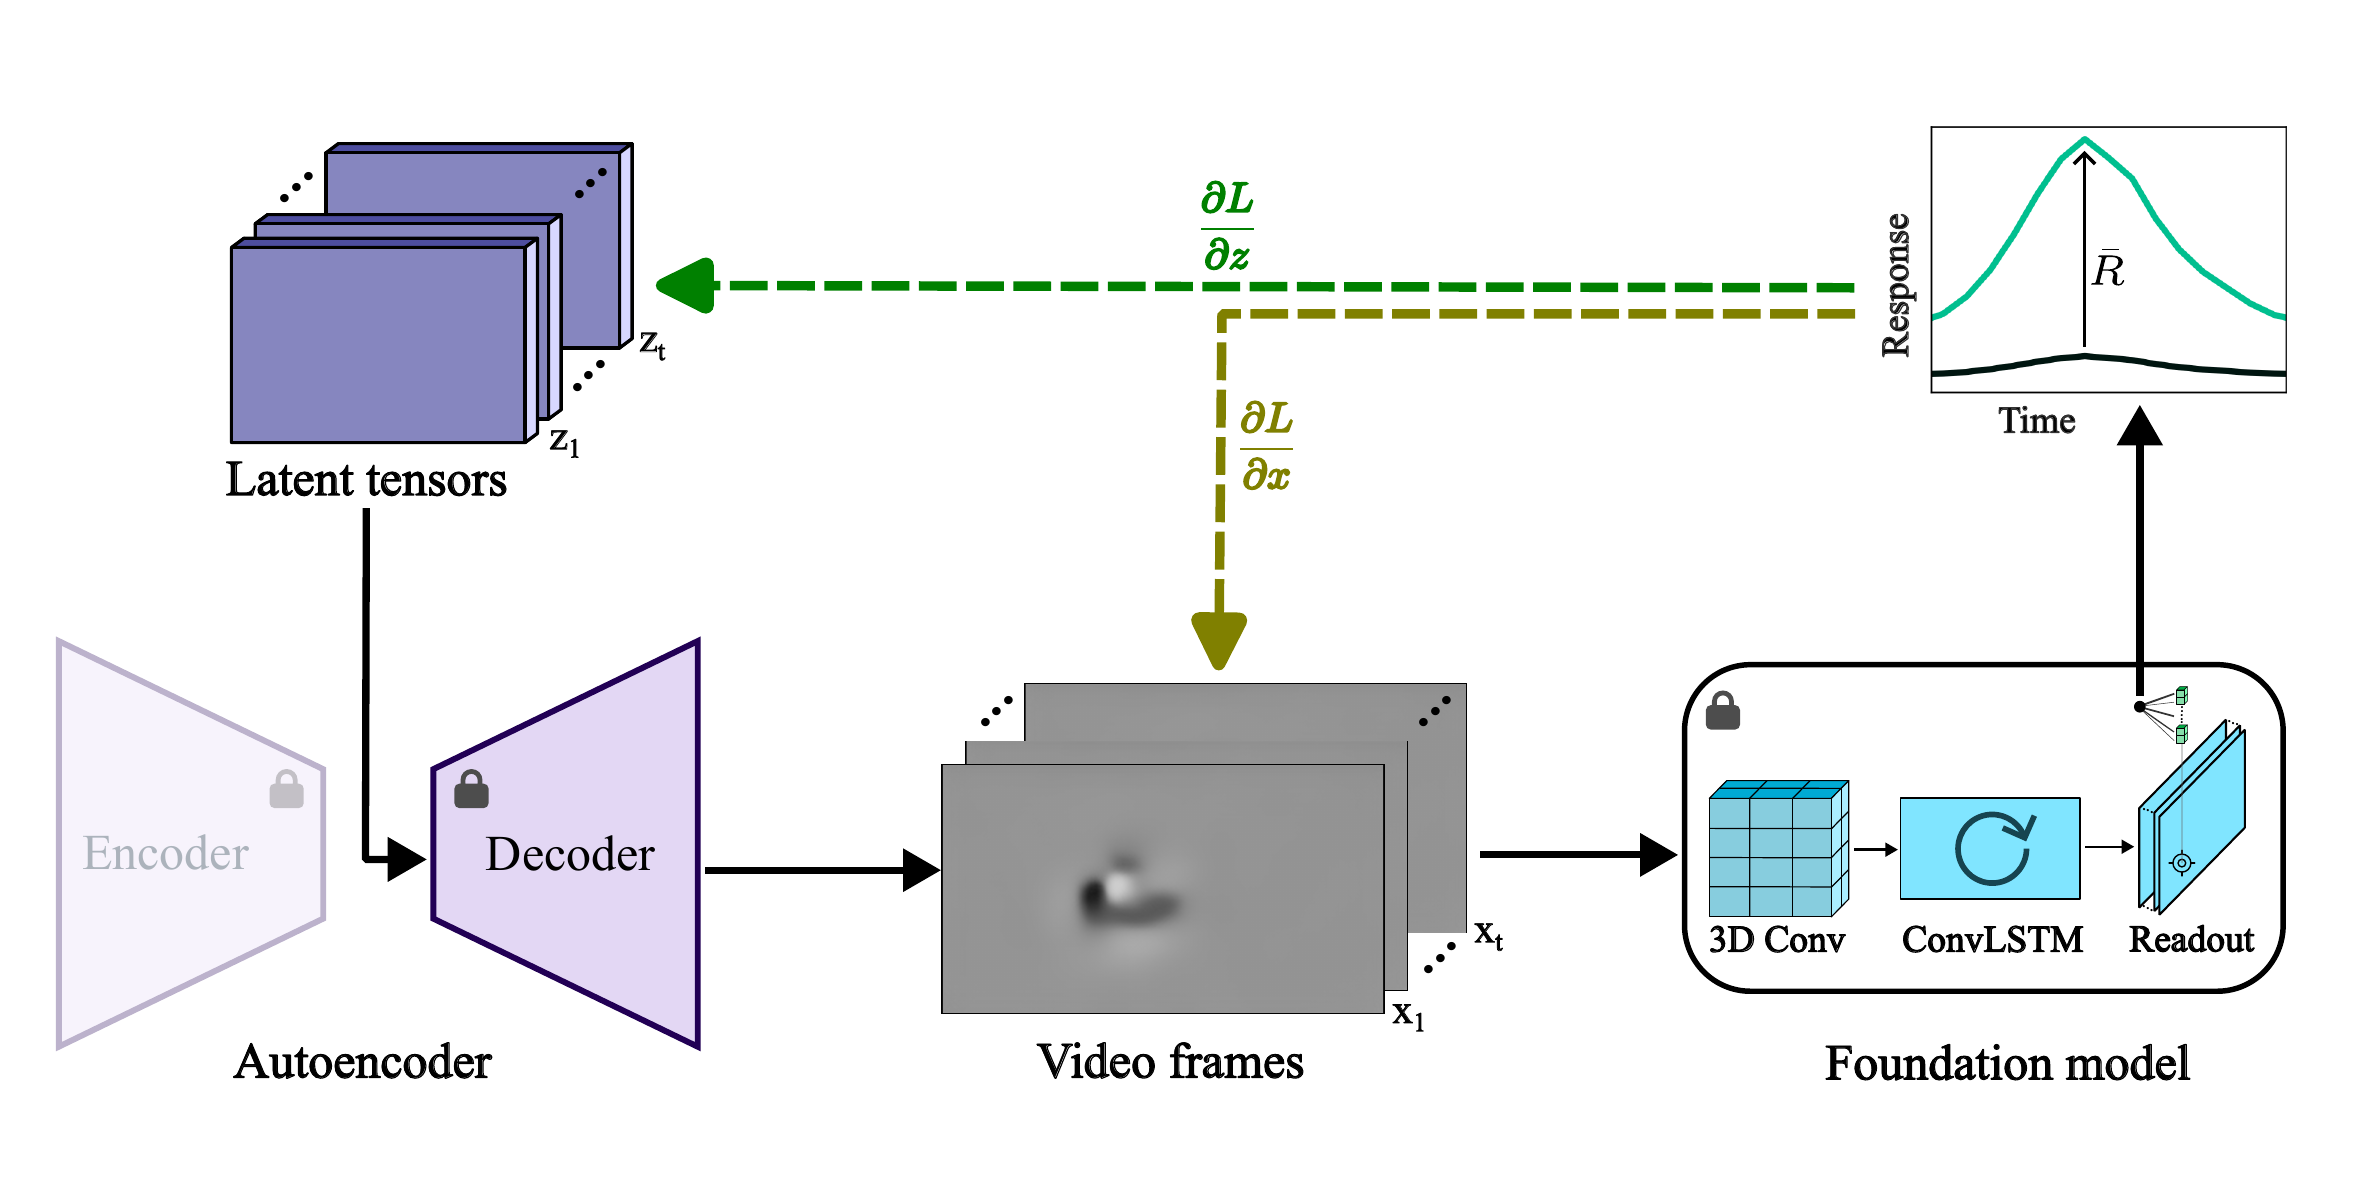
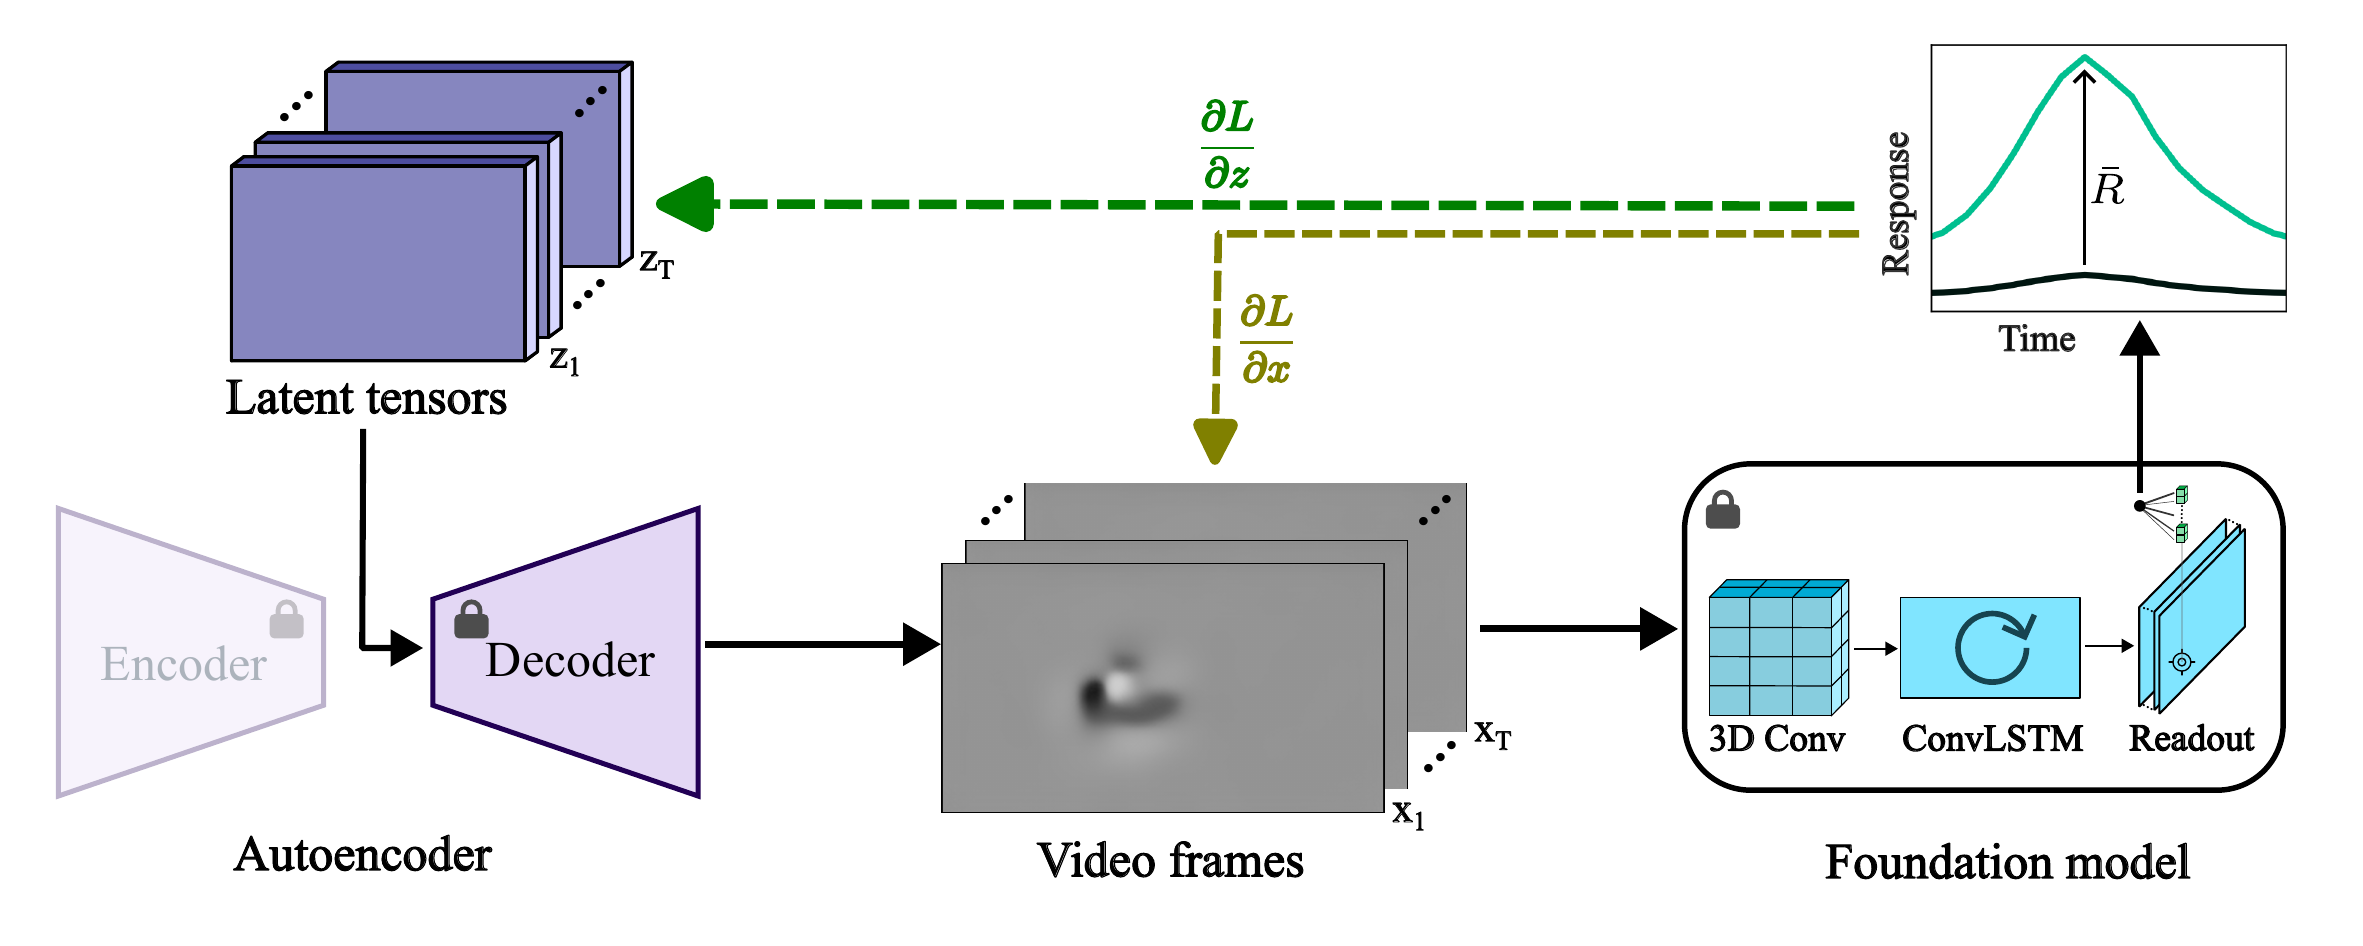
fix: updated figures

diff --git a/visualization/fig6.py b/visualization/fig6.py
@@ -195,17 +195,18 @@ def generate_fig6():
     
     pvals_layer = []
     groups_layer = []
+    layer_pairs = [(0,1), (1,2), (0,2)]
     
-    for i in range(len(layer_order) - 1):
+    for i, j in layer_pairs:
         g1 = filtered_layer[filtered_layer['layer'] == layer_order[i]][stii_col].dropna()
-        g2 = filtered_layer[filtered_layer['layer'] == layer_order[i+1]][stii_col].dropna()
+        g2 = filtered_layer[filtered_layer['layer'] == layer_order[j]][stii_col].dropna()
         if len(g1) > 0 and len(g2) > 0:
             _, p_val = ttest_ind(g1, g2, equal_var=False)
             pvals_layer.append(p_val)
-            groups_layer.append((i, i+1))
+            groups_layer.append((i, j))
         else:
             pvals_layer.append(np.nan)
-            groups_layer.append((i, i+1))
+            groups_layer.append((i, j))
             
     if pvals_layer:
         valid_indices = [i for i, p in enumerate(pvals_layer) if not np.isnan(p)]
@@ -215,11 +216,14 @@ def generate_fig6():
             for idx, corr_pval in zip(valid_indices, p_corrected_layer):
                 pvals_layer[idx] = corr_pval
 
-    for idx, (i, next_i) in enumerate(groups_layer):
+    for idx, (i, j) in enumerate(groups_layer):
         if not np.isnan(pvals_layer[idx]):
             star = get_star(pvals_layer[idx])
-            x1, x2 = i, i + 1
-            y, h = max(maxs_c[i], maxs_c[i+1]) + 0.05 + i*0.04, 0.02
+            x1, x2 = i, j
+            y = max(maxs_c[i], maxs_c[j]) + 0.05 + idx * 0.04
+            if i == 0 and j == 2:
+                y += 0.12
+            h = 0.02
             axC.plot([x1, x1, x2, x2], [y, y+h, y+h, y], lw=2.0, c='black')
             axC.text((x1+x2)*.5, y + h + 0.01, star, ha='center', va='bottom', color='black', fontsize=38)
     
@@ -251,14 +255,14 @@ def generate_fig6():
     c_m, c_g = '#1f77b4', '#2ca02c'
     axD.errorbar(x_positions, medi_tf_mean, yerr=medi_tf_sem, color=c_m, marker='o', linestyle='-', linewidth=4, label='MEDI TF', capsize=12, capthick=4, elinewidth=4, markersize=12)
     axD.errorbar(x_positions, grat_tf_mean, yerr=grat_tf_sem, color=c_g, marker='o', linestyle='-', linewidth=4, label='Grating TF', capsize=12, capthick=4, elinewidth=4, markersize=12)
-    axD.set_ylabel('Mean Preferred TF (Hz)', color='black', fontsize=34, labelpad=20)
-    axD.set_xticks(x_positions); axD.set_xticklabels(areas, fontsize=34)
+    axD.set_ylabel('Mean Preferred TF (Hz)', color='black', fontsize=38, labelpad=20)
+    axD.set_xticks(x_positions); axD.set_xticklabels(areas, fontsize=32)
     axD.margins(y=0.45); axD.spines['top'].set_visible(False)
     
     axD_sf = axD.twinx()
     axD_sf.errorbar(x_positions, medi_sf_mean, yerr=medi_sf_sem, color=c_m, marker='s', linestyle='--', linewidth=4, label='MEDI SF', capsize=12, capthick=4, elinewidth=4, markersize=12)
     axD_sf.errorbar(x_positions, grat_sf_mean, yerr=grat_sf_sem, color=c_g, marker='s', linestyle='--', linewidth=4, label='Grating SF', capsize=12, capthick=4, elinewidth=4, markersize=12)
-    axD_sf.set_ylabel('Mean Preferred SF (cpp)', color='black', fontsize=34, labelpad=20)
+    axD_sf.set_ylabel('Mean Preferred SF (cpp)', color='black', fontsize=38, labelpad=20)
     axD_sf.margins(y=0.45); axD_sf.spines['top'].set_visible(False)
     
     h1, l1 = axD.get_legend_handles_labels()
@@ -287,8 +291,8 @@ def generate_fig6():
             axE.text(j + 0.3, i + 0.3, sym_m, ha='center', va='center', color=c_m, fontsize=28)
             axE.text(j + 0.7, i + 0.8, sym_g, ha='center', va='center', color=c_g, fontsize=28)
                 
-    axE.text(0.5, -0.05, "TF Significance", transform=axE.transAxes, ha='center', va='top', fontsize=32, color='black')
-    axE.text(1.05, 0.5, "SF Significance", transform=axE.transAxes, ha='left', va='center', rotation=-90, fontsize=32, color='black')
+    axE.text(0.5, -0.05, "TF Significance", transform=axE.transAxes, ha='center', va='top', fontsize=38, color='black')
+    axE.text(1.05, 0.5, "SF Significance", transform=axE.transAxes, ha='left', va='center', rotation=-90, fontsize=38, color='black')
     axE.set_box_aspect(0.9)
     for spine in axE.spines.values(): spine.set_visible(False)
     

diff --git a/visualization/figs4.py b/visualization/figs4.py
@@ -65,10 +65,11 @@ def generate_figs4():
     fig, ax = plt.subplots(figsize=(4.2, 2.8))
     
     ax.plot(thr_vals, counts, color='#3498db', linewidth=2)
+    ax.set_yscale('log')
+    ax.set_ylim(bottom=100)
     ax.set_xlabel("Threshold (gOSI & gDSI)")
-    ax.set_ylabel("Neuron Count")
+    ax.set_ylabel(r"Neuron Count")
     ax.set_xticks([0.0, 0.2, 0.4, 0.6])
-    ax.set_ylim(0, max(counts) * 1.1)
     ax.tick_params(axis='both', which='major', direction='out', length=3, width=1, bottom=True, left=True)
     
     ax.spines['top'].set_visible(False)